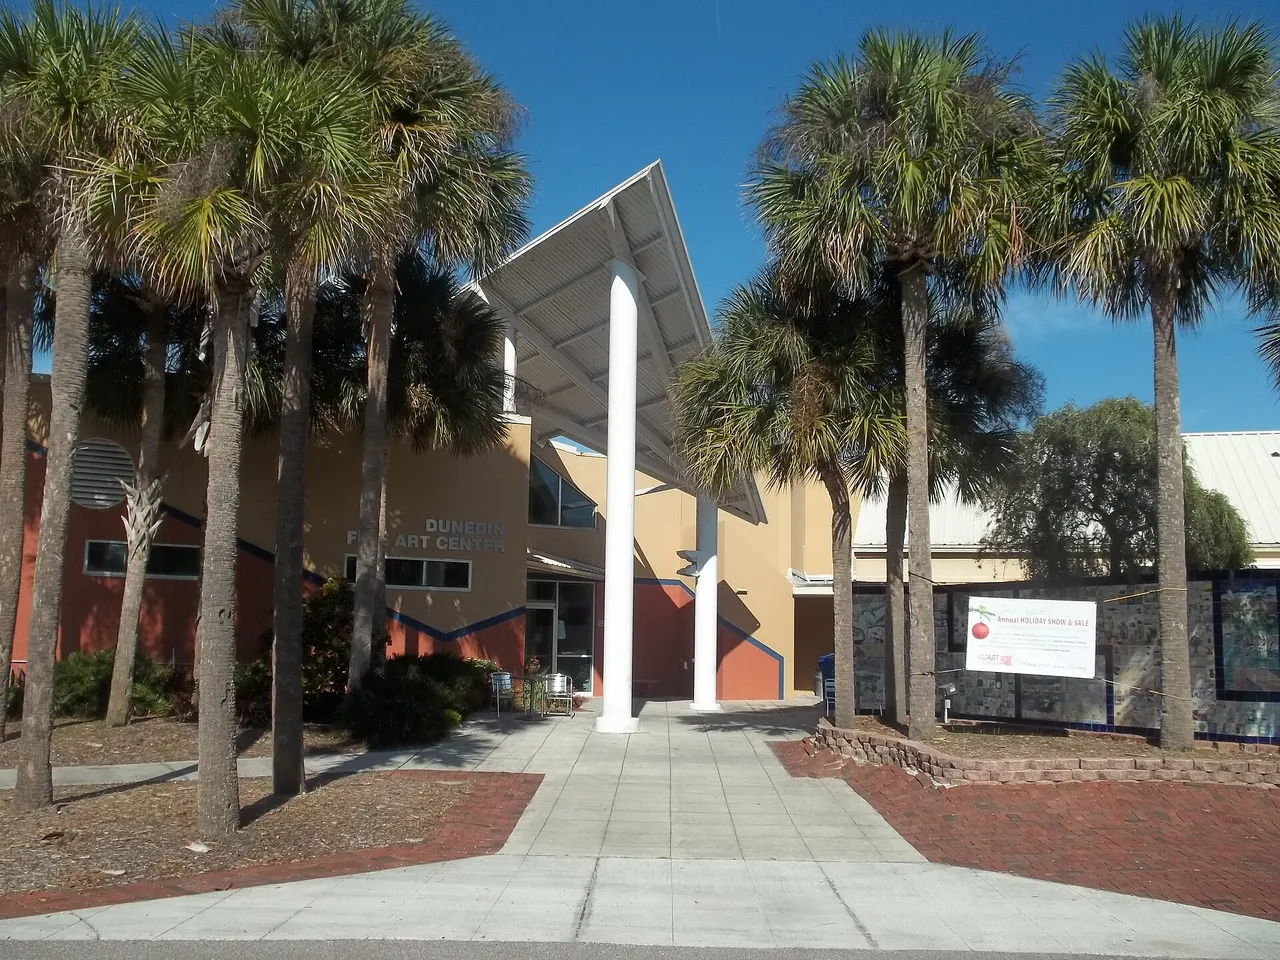
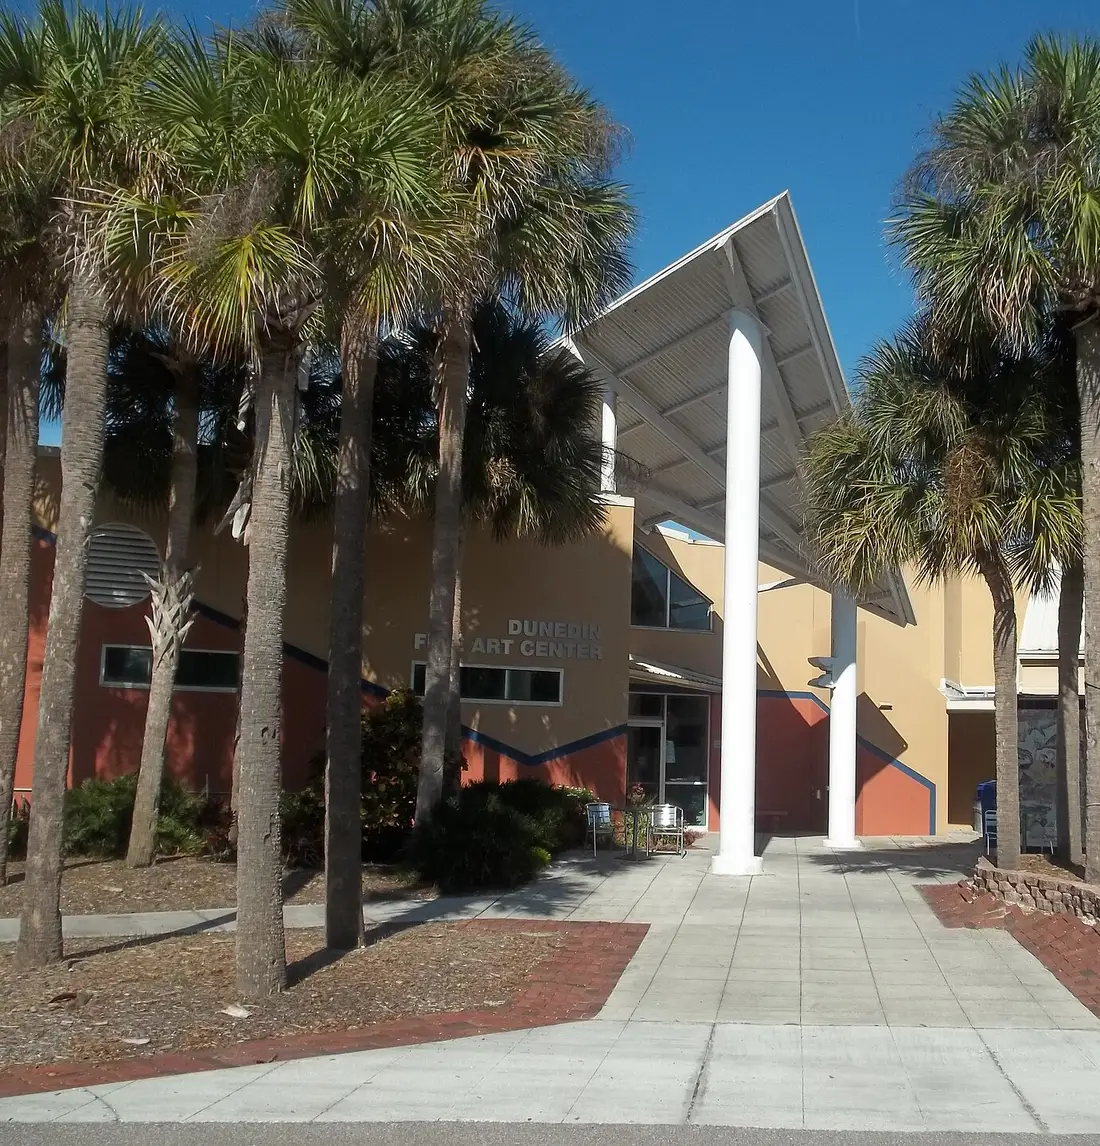
Review fixes: credit follows the shown photo, Dunedin crop, licence links
From the independent pre-merge review of this PR:
- /florida-events page passes photoAttr to EventHeroCredit only when the hero
  actually shown is the row's hero_image, so an owned gallery or creator shot
  that replaces the hero can never inherit the wrong credit.
- Dunedin Fine Art Center photo cropped to remove a banner for a different
  art center event; recompressed (1100px, 201 KB).
- CREDITS.md rows link the CC licence deeds.

Full npm run prebuild: 1055/1055 green.

Lane: claude.exe (Wayfind lane)
Claude-Session: https://claude.ai/code/session_01MvqzkMxZnrDNqbxBvyTpbL

diff --git a/app/florida-events/[slug]/page.js b/app/florida-events/[slug]/page.js
@@ -415,8 +415,8 @@ export default async function CuratedEventPage({ params }) {
           isVenue={eventImageIsVenue(e, heroSrc)}
           registryCredit={shots && shots.credit ? shots.credit : null}
           registryCreditHref={shots && shots.credit && shots.creditUrl ? shots.creditUrl : null}
-          attr={e.photoAttr || null}
-          attrHref={e.photoAttrHref || null}
+          attr={e.photoAttr && heroSrc === e.hero_image ? e.photoAttr : null}
+          attrHref={e.photoAttrHref && heroSrc === e.hero_image ? e.photoAttrHref : null}
           style={S.credit}
           linkStyle={S.link}
         />}

diff --git a/public/events/CREDITS.md b/public/events/CREDITS.md
@@ -4,7 +4,7 @@
 |---|---|---|---|
 | `bayfest-2026-official.webp` | [Anna Maria Island Chamber of Commerce](https://annamariaislandchamber.org/wp-content/uploads/bayfest-save-the-date.png) | Anna Maria Island Chamber of Commerce | Official 2026 BayFest marketing poster; unchanged art resized to 800px wide and converted to WebP for reliable delivery. |
 | `trending/blue-angels-homecoming-nas-pensacola.webp` | [Wikimedia Commons](https://commons.wikimedia.org/wiki/File:Blue_Angels_Homecoming_Air_Show_141108-N-WJ386-488.jpg) (originally [DVIDS 1661413](https://www.dvidshub.net/image/1661413)) | U.S. Navy photo by Mass Communication Specialist 2nd Class Andrea Perez (VIRIN 141108-N-WJ386-488, DVIDS caption "Released"). Public domain (U.S. federal government work); does not imply Navy endorsement. | Photo of the Blue Angels Homecoming Air Show at NAS Pensacola (Nov 8, 2014). Resized to 1280px wide, WebP. Cover for the 2026 Homecoming Air Show via lib/licensedEventCovers.js. |
-| `trending/downtown-celebration-market-street.webp` | [Wikimedia Commons](https://commons.wikimedia.org/wiki/File:Celebration,_the_town_that_Disney_built,_Florida,_USA_(15448001118).jpg) | traveljunction. CC BY-SA 2.0, credit shown on card and page. | Downtown Celebration, FL. Resized to 1280px wide, WebP. Venue photo for Celebration Founders Day 2026. |
-| `trending/historic-springfield-jacksonville-porch.webp` | [Wikimedia Commons](https://commons.wikimedia.org/wiki/File:Jax_FL_Springfield_HD05.jpg) | Ebyabe. CC BY-SA 3.0, credit shown on card and page. | Springfield Historic District, Jacksonville. Resized to 1280px wide, WebP. Venue photo for Jacksonville PorchFest 2026. |
-| `trending/lake-eola-park-fountain-skyline.webp` | [Wikimedia Commons](https://commons.wikimedia.org/wiki/File:Lake_Eola_Lake,_Orlando_Florida.jpg) | DoctorDotDJ. CC BY-SA 4.0, credit shown on card and page. | Lake Eola Park at sunset (2021). Resized to 1280px wide, WebP. Venue photo for Fall Fiesta in the Park 2026; replaces a Lake Eola place photo that showed an unrelated capoeira performance. |
-| `trending/dunedin-fine-art-center-highlander-park.webp` | [Wikimedia Commons](https://commons.wikimedia.org/wiki/File:FL_Dunedin_Fine_Art_Center03.jpg) | Ebyabe. CC BY-SA 4.0, credit shown on card and page. | Dunedin Fine Art Center entrance in Highlander Park (2020). Resized to 1280px wide, WebP. Venue photo for the 62nd Art Harvest 2026. |
+| `trending/downtown-celebration-market-street.webp` | [Wikimedia Commons](https://commons.wikimedia.org/wiki/File:Celebration,_the_town_that_Disney_built,_Florida,_USA_(15448001118).jpg) | traveljunction. [CC BY-SA 2.0](https://creativecommons.org/licenses/by-sa/2.0/), credit shown on card and page. | Downtown Celebration, FL. Resized to 1280px wide, WebP. Venue photo for Celebration Founders Day 2026. |
+| `trending/historic-springfield-jacksonville-porch.webp` | [Wikimedia Commons](https://commons.wikimedia.org/wiki/File:Jax_FL_Springfield_HD05.jpg) | Ebyabe. [CC BY-SA 3.0](https://creativecommons.org/licenses/by-sa/3.0/), credit shown on card and page. | Springfield Historic District, Jacksonville. Resized to 1280px wide, WebP. Venue photo for Jacksonville PorchFest 2026. |
+| `trending/lake-eola-park-fountain-skyline.webp` | [Wikimedia Commons](https://commons.wikimedia.org/wiki/File:Lake_Eola_Lake,_Orlando_Florida.jpg) | DoctorDotDJ. [CC BY-SA 4.0](https://creativecommons.org/licenses/by-sa/4.0/), credit shown on card and page. | Lake Eola Park at sunset (2021). Resized to 1280px wide, WebP. Venue photo for Fall Fiesta in the Park 2026; replaces a Lake Eola place photo that showed an unrelated capoeira performance. |
+| `trending/dunedin-fine-art-center-highlander-park.webp` | [Wikimedia Commons](https://commons.wikimedia.org/wiki/File:FL_Dunedin_Fine_Art_Center03.jpg) | Ebyabe. [CC BY-SA 4.0](https://creativecommons.org/licenses/by-sa/4.0/), credit shown on card and page. | Dunedin Fine Art Center entrance in Highlander Park (2020). Cropped to remove a banner for a different art center event, resized to 1100px wide, WebP. Venue photo for the 62nd Art Harvest 2026. |
